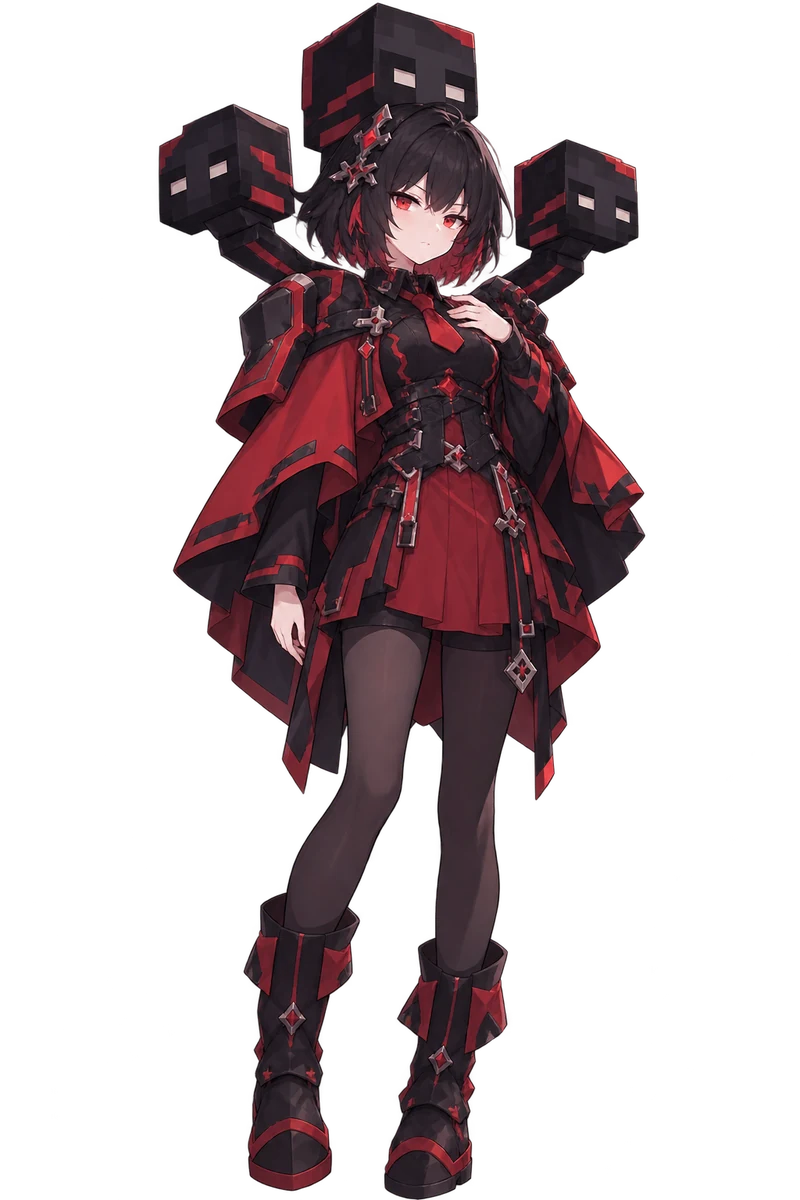
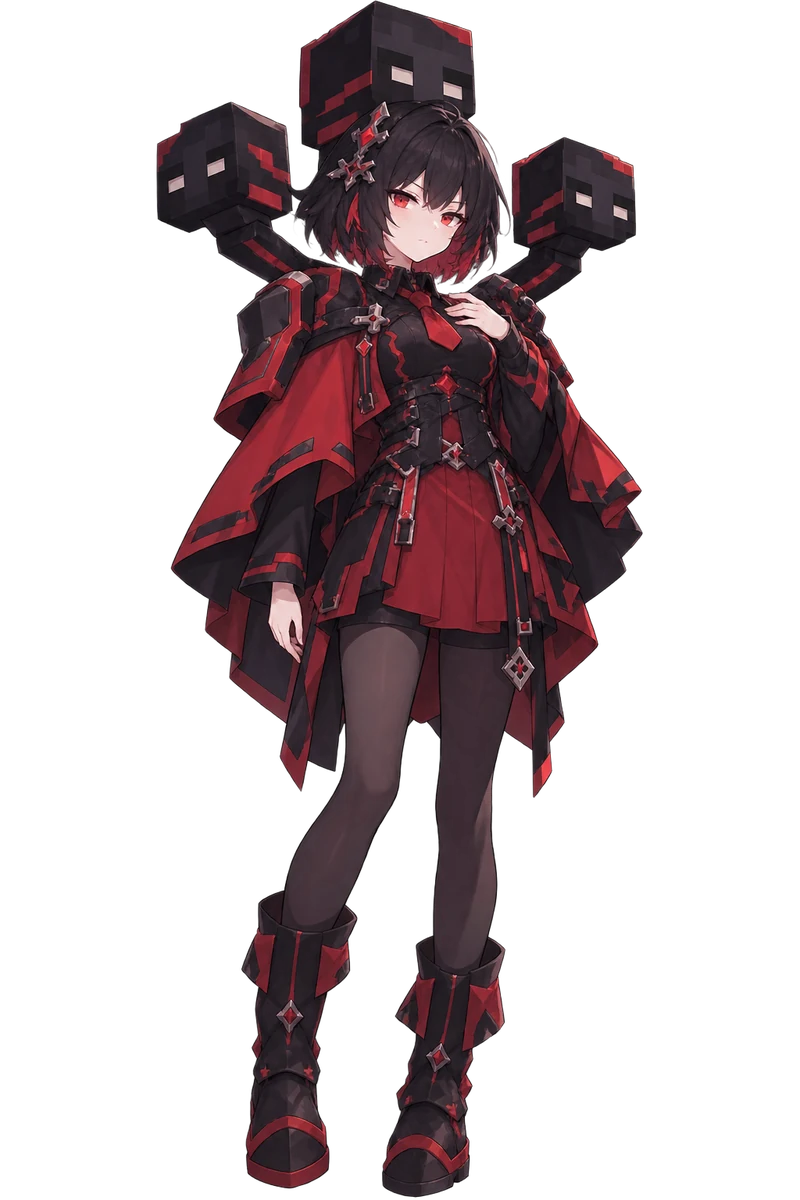
website: 人物页立绘按高度归一化（构建期重排 + 同尺度版式），Bonzo 换新版立绘
- tools/build_assets.py 新增 _fit_portrait()：按墨迹（非透明像素）把立绘拉平到画布高度、
  底边贴齐画布底、左右居中，再按原来的 max_h 出图。原始素材落位不统一（弓手整张偏右 85px，
  石守卫身高只有画布的 92%），不归一化就会出现「每行人物左右跳 + 个别明显偏小」。
  画布尺寸不变，舞台页缩略图与首页小头像的盒子尺寸不受影响。
- css/site.css：人物页立绘列 360/320px → min(600px, calc(100% - 520px))，自机与 Boss 共用
  同一个 max-height（桌面 600px，往下依次 460 / 400 / 340），列宽容得下最宽的 1200×1200 素材。
- 重建 web/assets/boss 与 web/assets/chara 的 21 张立绘：横向偏差 85px → ≤2px，高度占比
  92.2% ~ 100% → 99.5% ~ 100%，底边留白 56px → ≤3px，总体积 5165 KB → 4864 KB。
- 同步 bonzo 新版立绘（同构图）；data/chara.json、index.html 带入重装弹幕文案更新。
- README 补上立绘归一化的说明，以及「改 max-height 要连带改列宽」的约束。

diff --git a/web/css/site.css b/web/css/site.css
@@ -593,10 +593,10 @@ body.is-title .deck { background: linear-gradient(to bottom, rgba(4,6,14,.92), v
    自机页
    ========================================================================== */
 .chara-full { border-top: 1px solid var(--line); padding: 64px 0; position: relative; z-index: 1; }
-.chara-full .inner { display: grid; grid-template-columns: 360px 1fr; gap: 50px; }
+.chara-full .inner { display: grid; grid-template-columns: min(600px, calc(100% - 520px)) 1fr; gap: 50px; }
 .chara-full .art { display: flex; justify-content: center; align-items: flex-end; }
 .chara-full .art img {
-  max-height: 480px; width: auto;
+  max-height: 600px; width: auto;   /* 素材构建期已归一化，这里同一个值就是同一个高度 */
   filter: drop-shadow(0 20px 34px rgba(0, 0, 0, .6));
 }
 .chara-full .idx {
@@ -661,16 +661,19 @@ body.is-title .deck { background: linear-gradient(to bottom, rgba(4,6,14,.92), v
   color: var(--ink-mute); text-transform: uppercase;
 }
 
-/* 一行一位，版式与自机那几行同源（.chara-full），只是窄一点的立绘列 */
+/* 一行一位。立绘在构建期已经归一化（tools/build_assets.py 的 _fit_portrait：墨迹拉平到画布
+   高度、底边贴齐画布底、左右居中），所以这里跟 .chara-full 用同一口径即可：同一个 max-height
+   就是同一个视觉高度，居中就是同一条中轴。列宽要放得下最宽的一张（1200×1200 → 600px 宽），
+   桌面因此是 600px；用 min() 兜底，窗口收窄时先缩列宽，文字列不低于 470px。 */
 .boss-row {
-  display: grid; grid-template-columns: 320px 1fr; gap: 46px;
+  display: grid; grid-template-columns: min(600px, calc(100% - 520px)) 1fr; gap: 50px;
   align-items: center;
   padding: 44px 0; border-top: 1px solid var(--line);
 }
 .boss-row .art { display: flex; justify-content: center; align-items: center; }
 .boss-row .art img {
-  max-height: 340px; width: auto;
-  filter: drop-shadow(0 16px 26px rgba(0, 0, 0, .6));
+  max-height: 600px; width: auto;
+  filter: drop-shadow(0 20px 34px rgba(0, 0, 0, .6));
 }
 .boss-row .idx {
   font-family: var(--font-en); font-size: 12px; letter-spacing: .3em;
@@ -905,8 +908,10 @@ html.warp-in .title-card .en { opacity: 1; transform: none; animation: none; }
   .chara-card:nth-child(n+3) { border-top: 1px solid var(--line); }
   .stage-grid { grid-template-columns: 1fr; gap: 30px; }
   .stage-id { position: static; }
-  .chara-full .inner { grid-template-columns: 280px 1fr; gap: 34px; }
-  .boss-row { grid-template-columns: 260px 1fr; gap: 32px; }
+  .chara-full .inner { grid-template-columns: min(460px, calc(100% - 364px)) 1fr; gap: 34px; }
+  .chara-full .art img { max-height: 460px; }
+  .boss-row { grid-template-columns: min(460px, calc(100% - 364px)) 1fr; gap: 34px; }
+  .boss-row .art img { max-height: 460px; }
 }
 
 @media (max-width: 860px) {
@@ -923,7 +928,8 @@ html.warp-in .title-card .en { opacity: 1; transform: none; animation: none; }
   .dl-grid { grid-template-columns: 1fr; }
   .chara-full .inner { grid-template-columns: 1fr; }
   .chara-full .art { justify-content: flex-start; }
-  .chara-full .art img { max-height: 360px; }
+  .chara-full .art img { max-height: 400px; }
+  .boss-row .art img { max-height: 400px; }
   .track-group { grid-template-columns: 1fr; gap: 14px; }
   .filters { position: static; }
   .cast-nav { position: static; }
@@ -949,7 +955,8 @@ html.warp-in .title-card .en { opacity: 1; transform: none; animation: none; }
   .boss { grid-template-columns: 96px 1fr; gap: 16px; }
   .boss-row { grid-template-columns: 1fr; gap: 20px; }
   .boss-row .art { justify-content: flex-start; }
-  .boss-row .art img { max-height: 320px; }
+  .chara-full .art img { max-height: 340px; }
+  .boss-row .art img { max-height: 340px; }
   #cast-players, .boss-group { scroll-margin-top: 76px; }
   .boss .art img { max-height: 118px; }
   .spells li { flex-wrap: wrap; gap: 6px 14px; }

diff --git a/web/index.html b/web/index.html
@@ -168,7 +168,7 @@
           <div class="who">
             <div class="en">Tank</div>
             <div class="cn">重装</div>
-            <div class="shot">弹道笔直向上，另带追踪弹。慢，但站得住。</div>
+            <div class="shot">几条平行弹道笔直向上，扔出去的斧头能穿透；按住 Shift 会稍微收拢。慢，但站得住。</div>
           </div>
         </article>
         <article class="chara-card" style="--chara-color:#90b8ff">

diff --git a/web/tools/build_assets.py b/web/tools/build_assets.py
@@ -59,6 +59,34 @@ def _report(label, out_path, size, src_path):
           % (label, rel, size[0], size[1], kb, os.path.relpath(src_path, ROOT).replace("\\", "/")))
 
 
+# ---------------------------------------------------------------- 立绘归一化
+
+# 立绘素材的画幅与取景都不统一：多数是 1024×1536，少数偏方（1200×1200 那几张），
+# 人物在画布里的落位也各不一样——弓手整张偏右 85px，石守卫上下留白 38/56px、身高只有画布的 92%。
+# 页面把这些图按高度缩放并排时，上面这些差别就变成「每行人物左右跳 + 个别明显偏小」。
+# 所以构建时先重排一次：墨迹拉平到画布高度、底边贴齐画布底、左右居中。
+# 画布尺寸保持不变，舞台页的小缩略图不会因此变小。
+PORTRAIT_ALPHA_MIN = 12   # 墨迹判定阈值（0-255），低于它的按柔边/杂点处理
+
+
+def _fit_portrait(src_path, alpha_min=PORTRAIT_ALPHA_MIN):
+    """把立绘重排进它原有的画布：按墨迹范围拉平大小、底边对齐、水平居中。"""
+    img = _open(src_path).convert("RGBA")
+    w, h = img.size
+    box = img.getchannel("A").point(lambda v: 255 if v > alpha_min else 0).getbbox()
+    if not box:
+        return img
+    x0, y0, x1, y1 = box
+    scale = h / float(y1 - y0)          # 让墨迹高度正好等于画布高度
+    if abs(scale - 1.0) > 0.002:
+        img = img.resize((max(1, round(w * scale)), max(1, round(h * scale))), Image.LANCZOS)
+    ink_cx = (x0 + x1) * scale / 2.0    # 缩放后墨迹的横向中心与底边
+    ink_bottom = y1 * scale
+    out = Image.new("RGBA", (w, h), (0, 0, 0, 0))
+    out.paste(img, (round(w / 2.0 - ink_cx), round(h - ink_bottom)), img)
+    return out
+
+
 # ---------------------------------------------------------------- 1. 首页底图
 
 def build_title():
@@ -113,7 +141,7 @@ def build_chara():
     for key, (portrait, fight) in CHARA_FILES.items():
         src = os.path.join(base, portrait)
         out = os.path.join(ASSETS, "chara", key + ".webp")
-        _report(key, out, _save_webp(_open(src).convert("RGBA"), out, quality=90, max_h=1400), src)
+        _report(key, out, _save_webp(_fit_portrait(src), out, quality=90, max_h=1400), src)
 
         src = os.path.join(base, fight)
         out = os.path.join(ASSETS, "chara", key + "-fight.webp")
@@ -155,7 +183,7 @@ def build_boss():
     for key in sorted(BOSS_ART_FILES):
         src = os.path.join(base, BOSS_ART_FILES[key])
         out = os.path.join(ASSETS, "boss", key + ".webp")
-        _report(key, out, _save_webp(_open(src).convert("RGBA"), out, quality=88, max_h=1200), src)
+        _report(key, out, _save_webp(_fit_portrait(src), out, quality=88, max_h=1200), src)
 
 
 # ---------------------------------------------------------------- 5. 物品图标

diff --git a/web/README.md b/web/README.md
@@ -83,6 +83,14 @@ Boss 立绘有两个套组（游戏设置里可切换，见 `src/engine/settings
 本站统一用「另一版」：由 `web/tools/build_assets.py` 顶部的 `BOSS_ART_SET` 决定，
 舞台页与人物页共用同一批图。想换回「新版」就改这一个常量，再跑 `python web/tools/build_assets.py boss`。
 
+立绘在构建期归一化过：`tools/build_assets.py` 的 `_fit_portrait()` 先把每张图的**墨迹**
+（非透明像素）拉平到画布高度、底边贴齐画布底、左右居中，再按原来的 `max_h` 出图。原始素材的
+画幅与取景并不统一（多数 1024×1536，少数偏方 1200×1200；弓手整张偏右 85px，石守卫身高只有
+画布的 92%），不归一化就会出现「每行人物左右跳 + 个别明显偏小」。归一化之后，人物页自机 / Boss
+同一个 `max-height`（桌面 600px，往下依次 460 / 400 / 340）= 同一个视觉高度。
+**改 `max-height` 要连带改列宽**（`.chara-full .inner` 与 `.boss-row` 里 `min(600px, calc(100% - 520px))`
+的两个数），列宽至少要放得下最宽的那张（1200×1200 → 600px 宽）。
+
 改完页面后可以跑一次引用检查，确认没有引用到不存在的文件：
 
 ```
